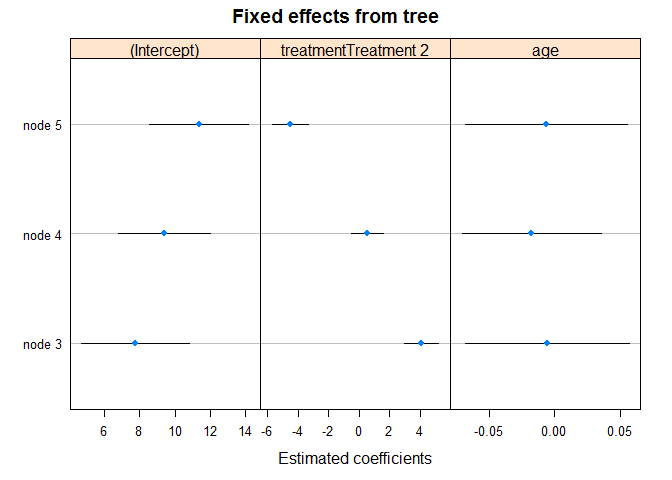
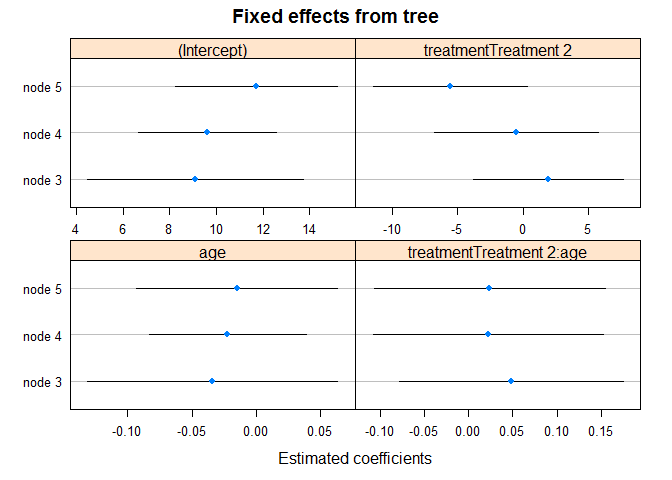
updates

diff --git a/glmertree_updates_15-5-2019.md b/glmertree_updates_15-5-2019.md
@@ -40,7 +40,7 @@ Plotting coefficients without tree structure
 ### Default settings
 
 ``` r
-lt <- lmertree(depression ~ treatment + age | cluster | anxiety + duration,
+lt <- lmertree(depression ~ treatment*age | cluster | anxiety + duration,
   data = DepressionDemo)
 plot.lmertree2(lt, which = "tree.coef")
 ```
@@ -58,7 +58,7 @@ plot.lmertree2(lt, which = "ranef")
 ### No error bars when joint = FALSE
 
 ``` r
-lt <- lmertree(depression ~ treatment + age | cluster | anxiety + duration,
+lt <- lmertree(depression ~ treatment*age | cluster | anxiety + duration,
   data = DepressionDemo, joint = FALSE)
 ```
 
